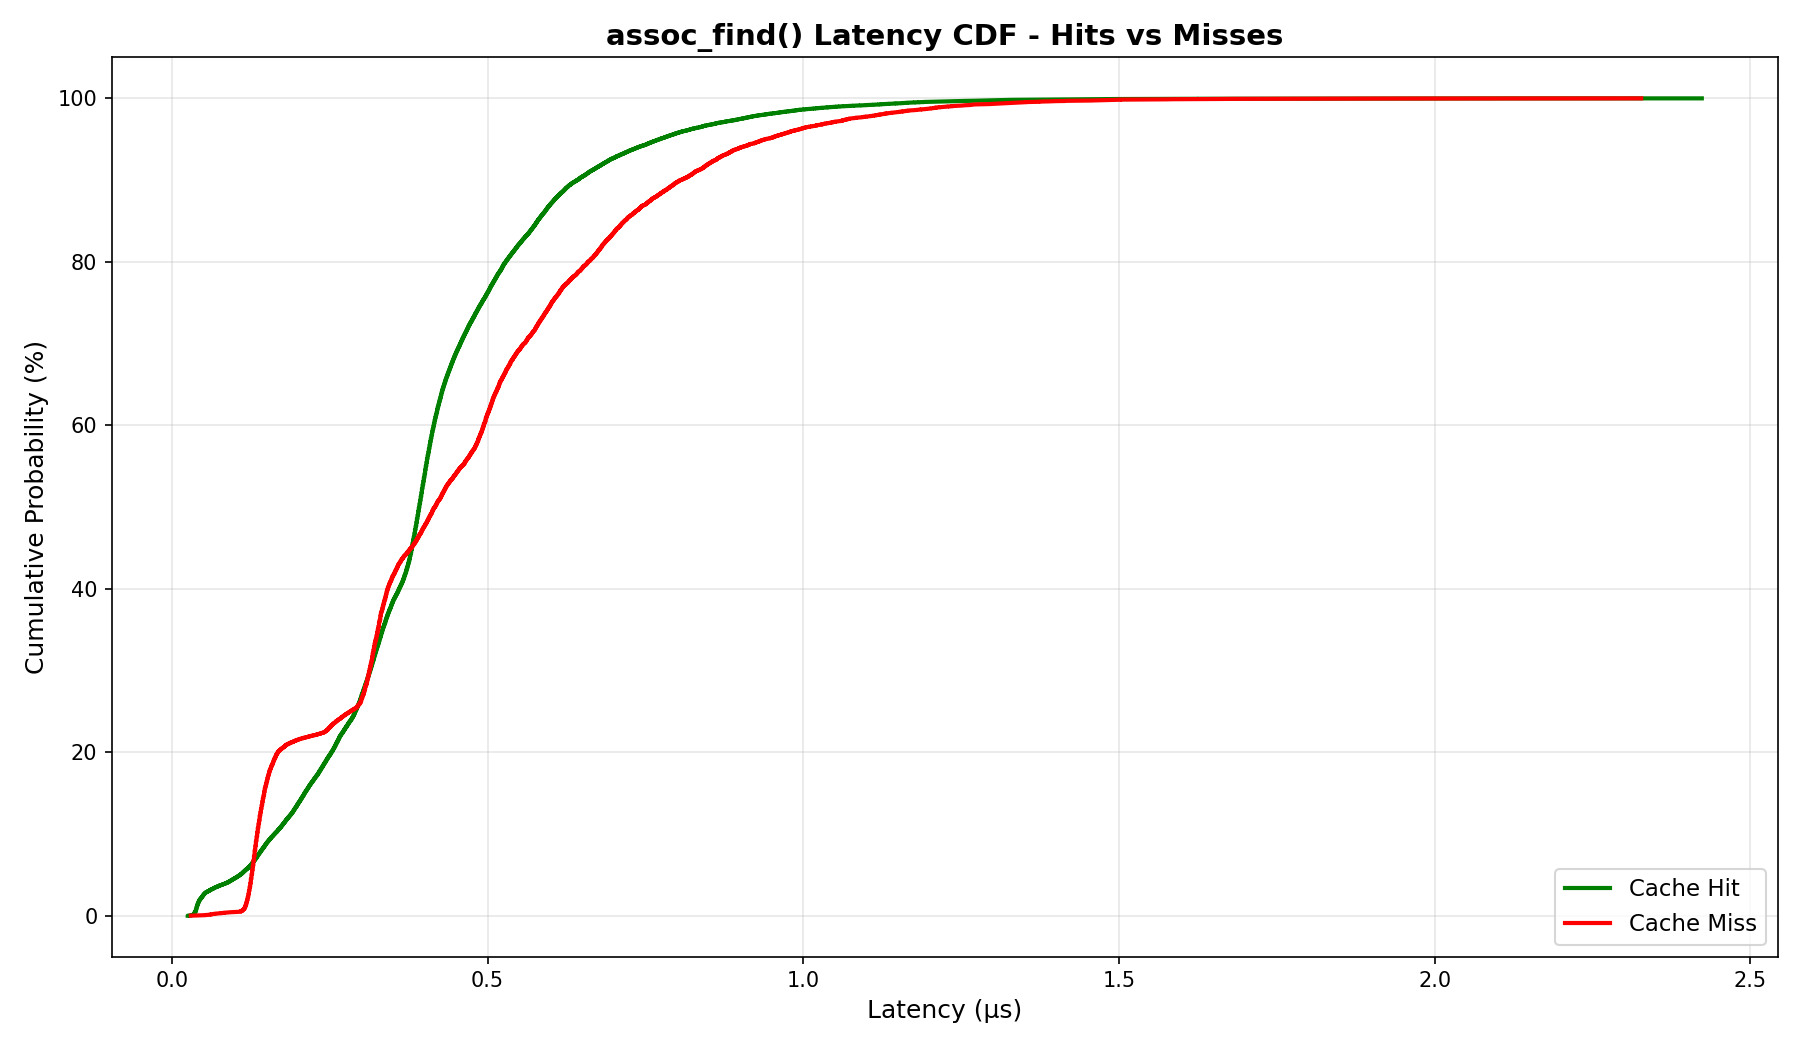
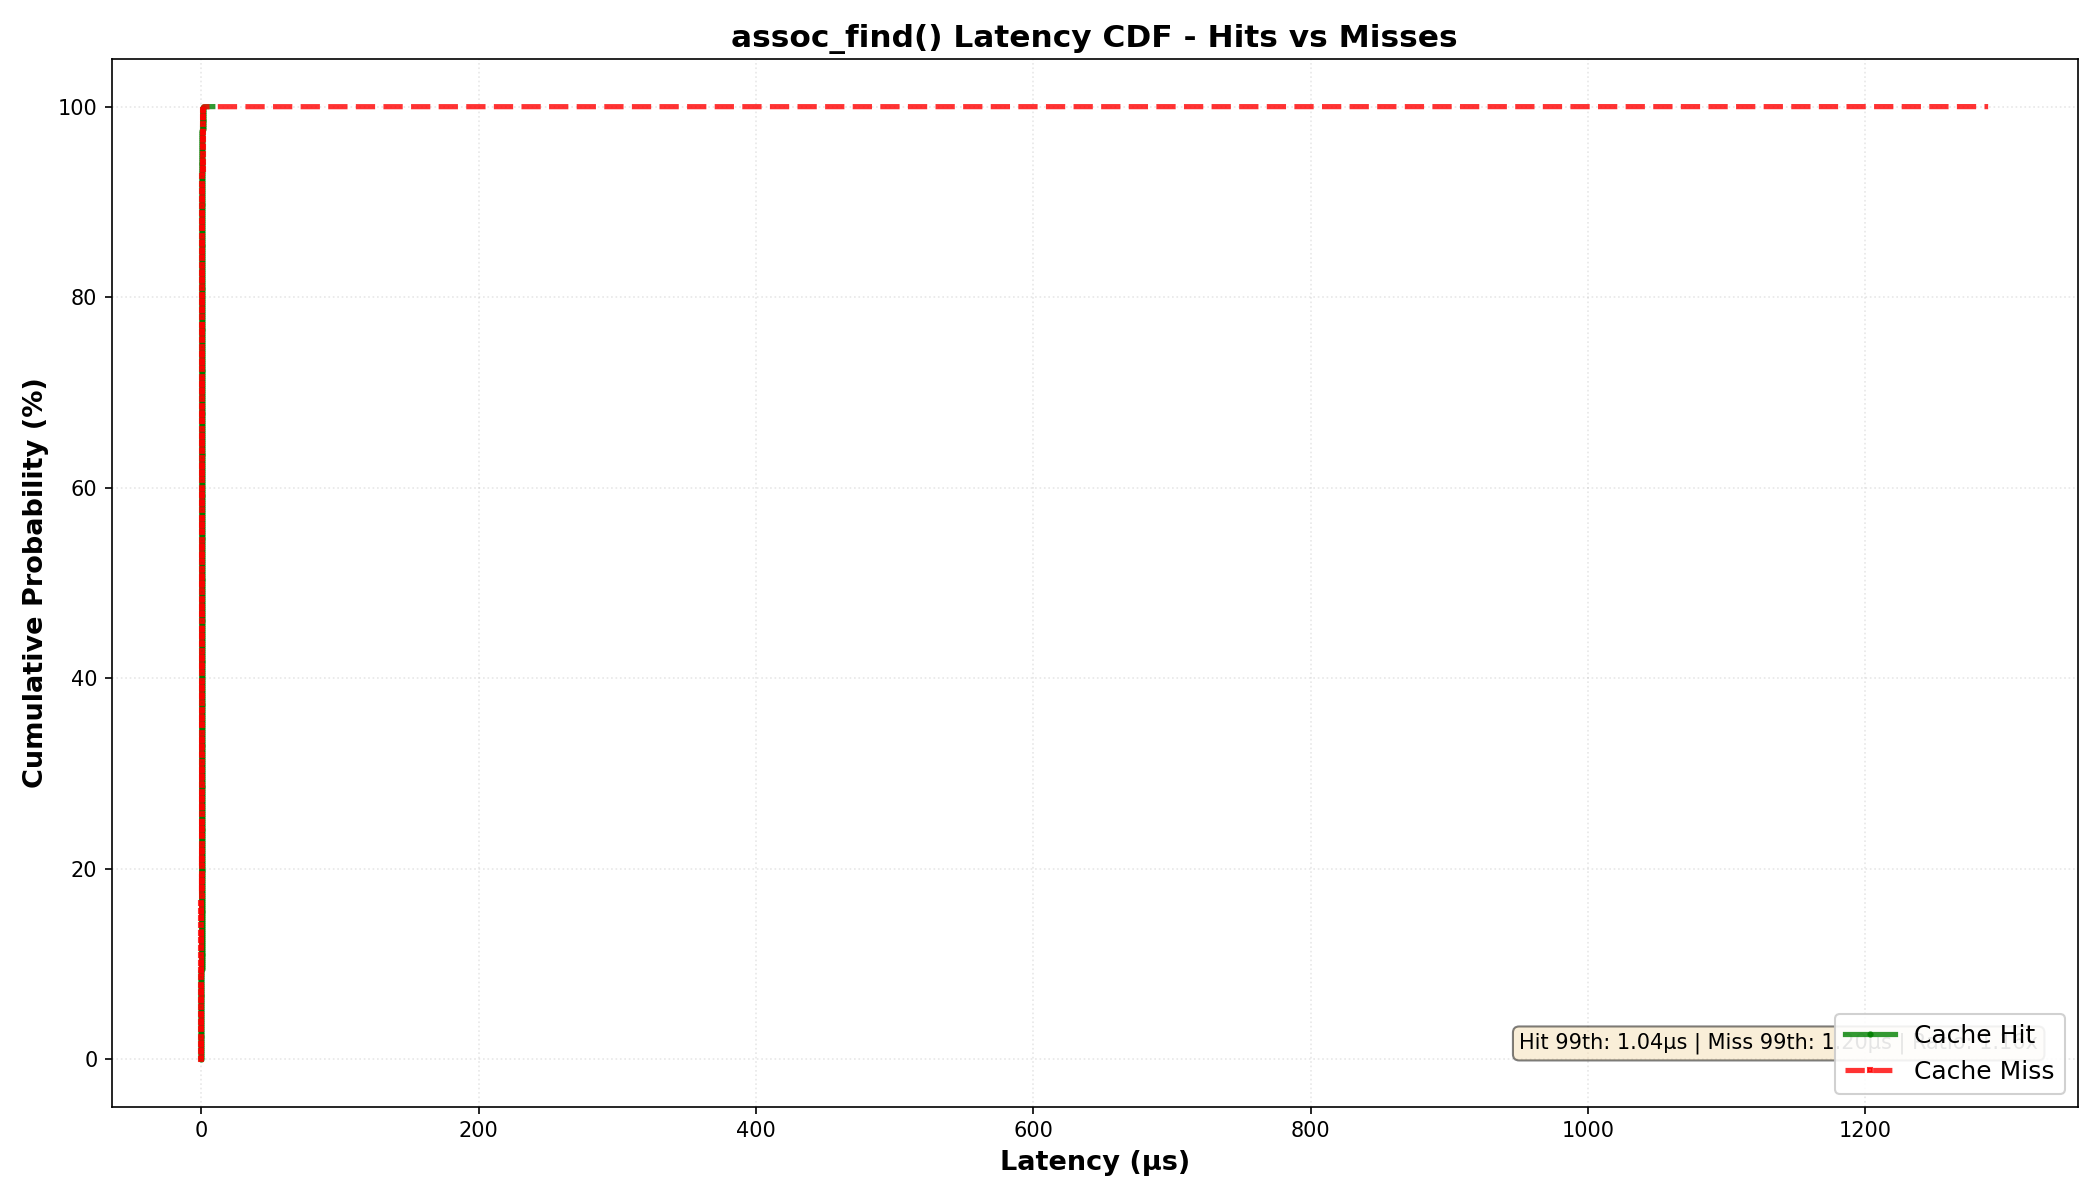
add timings to memcached

diff --git a/analyze_assoc_find.py b/analyze_assoc_find.py
@@ -88,31 +88,49 @@ def generate_cdf_plot(hits, misses, output_file):
     hit_sorted, hit_cdf = calculate_cdf(hit_times)
     miss_sorted, miss_cdf = calculate_cdf(miss_times)
     
-    # Create figure with larger size
-    fig, ax = plt.subplots(figsize=(14, 8))
+    # Create figure with 2 subplots
+    fig, (ax1, ax2) = plt.subplots(1, 2, figsize=(16, 7))
     
     # Convert to microseconds for readability
-    # Plot with different styles and markers for better visibility
-    ax.plot(hit_sorted / 1000, hit_cdf * 100, linewidth=2.5, label='Cache Hit', 
-            color='green', linestyle='-', marker='o', markersize=2, markevery=100, alpha=0.8)
-    ax.plot(miss_sorted / 1000, miss_cdf * 100, linewidth=2.5, label='Cache Miss', 
-            color='red', linestyle='--', marker='s', markersize=2, markevery=100, alpha=0.8)
+    hit_us = hit_sorted / 1000
+    miss_us = miss_sorted / 1000
     
-    ax.set_xlabel('Latency (µs)', fontsize=13, fontweight='bold')
-    ax.set_ylabel('Cumulative Probability (%)', fontsize=13, fontweight='bold')
-    ax.set_title('assoc_find() Latency CDF - Hits vs Misses', fontsize=15, fontweight='bold')
-    ax.legend(fontsize=12, loc='lower right', framealpha=0.9)
-    ax.grid(True, alpha=0.3, linestyle=':')
+    # Plot 1: Linear scale (zoomed to 0-10µs)
+    ax1.plot(hit_us, hit_cdf * 100, linewidth=2.5, label='Cache Hit', 
+            color='green', linestyle='-', marker='o', markersize=2, markevery=50, alpha=0.8)
+    ax1.plot(miss_us, miss_cdf * 100, linewidth=2.5, label='Cache Miss', 
+            color='red', linestyle='--', marker='s', markersize=2, markevery=50, alpha=0.8)
+    ax1.set_xlabel('Latency (µs)', fontsize=12, fontweight='bold')
+    ax1.set_ylabel('Cumulative Probability (%)', fontsize=12, fontweight='bold')
+    ax1.set_title('Linear Scale (0-10µs)', fontsize=13, fontweight='bold')
+    ax1.set_xlim(0, 10)
+    ax1.legend(fontsize=11, loc='lower right', framealpha=0.9)
+    ax1.grid(True, alpha=0.3, linestyle=':')
     
-    # Add some statistics as text
+    # Plot 2: Logarithmic scale (full range)
+    ax2.semilogx(hit_us, hit_cdf * 100, linewidth=2.5, label='Cache Hit', 
+                color='green', linestyle='-', marker='o', markersize=2, markevery=50, alpha=0.8)
+    ax2.semilogx(miss_us, miss_cdf * 100, linewidth=2.5, label='Cache Miss', 
+                color='red', linestyle='--', marker='s', markersize=2, markevery=50, alpha=0.8)
+    ax2.set_xlabel('Latency (µs, log scale)', fontsize=12, fontweight='bold')
+    ax2.set_ylabel('Cumulative Probability (%)', fontsize=12, fontweight='bold')
+    ax2.set_title('Logarithmic Scale (Full Range)', fontsize=13, fontweight='bold')
+    ax2.legend(fontsize=11, loc='lower right', framealpha=0.9)
+    ax2.grid(True, alpha=0.3, linestyle=':')
+    
+    # Add main title
+    fig.suptitle('assoc_find() Latency CDF - Hits vs Misses', fontsize=15, fontweight='bold', y=0.98)
+    
+    # Add statistics as text
     hit_p99 = np.percentile(hit_times, 99) / 1000
     miss_p99 = np.percentile(miss_times, 99) / 1000
+    hit_p95 = np.percentile(hit_times, 95) / 1000
+    miss_p95 = np.percentile(miss_times, 95) / 1000
     textstr = f'Hit 99th: {hit_p99:.2f}µs | Miss 99th: {miss_p99:.2f}µs | Ratio: {miss_p99/hit_p99:.2f}x'
-    ax.text(0.98, 0.05, textstr, transform=ax.transAxes, fontsize=10,
-            verticalalignment='bottom', horizontalalignment='right',
+    fig.text(0.98, 0.02, textstr, ha='right', fontsize=10,
             bbox=dict(boxstyle='round', facecolor='wheat', alpha=0.5))
     
-    plt.tight_layout()
+    plt.tight_layout(rect=[0, 0.03, 1, 0.96])
     
     # Save figure
     plt.savefig(output_file, dpi=150)